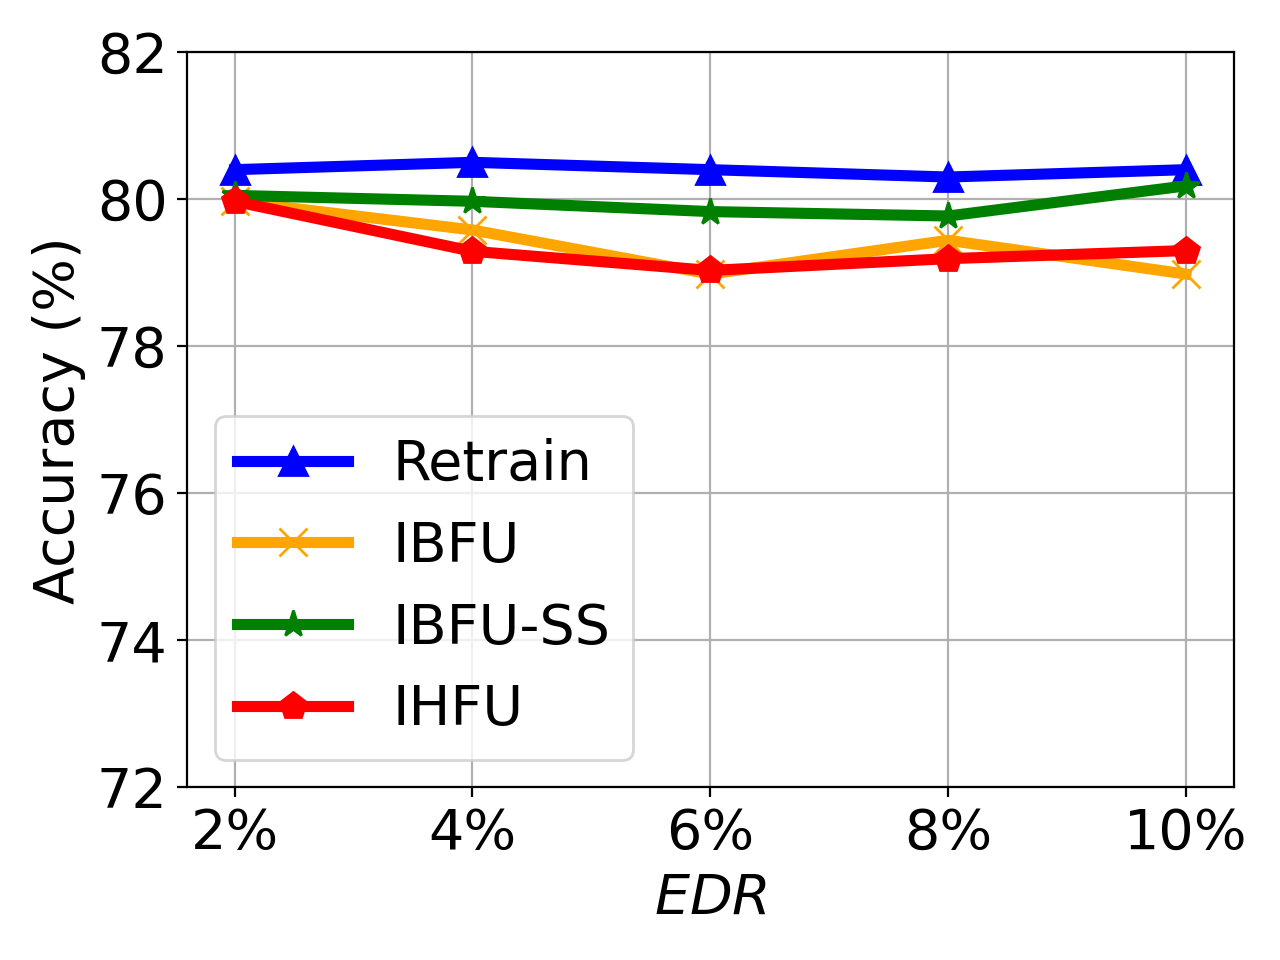
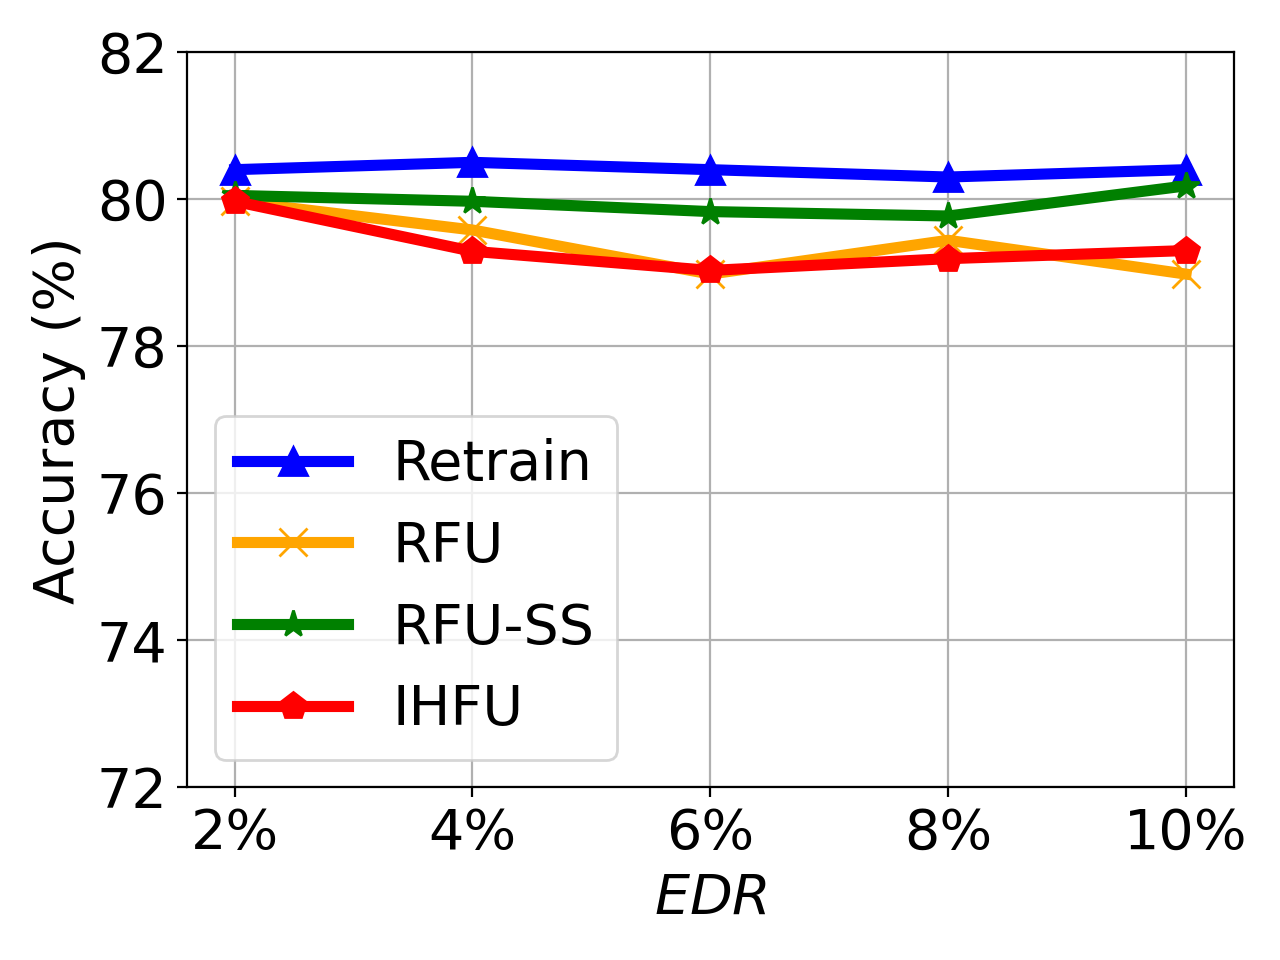
update

Changed region(s): [[0.3125, 0.4375, 0.5, 0.7812], [0.3125, 0.5312, 0.4062, 0.5938]]

diff --git a/IBFU_Experiment_results/MNIST/client/mnist_client_epochs.py b/IBFU_Experiment_results/MNIST/client/mnist_client_epochs.py
@@ -1,5 +1,6 @@
 
 
+
 import numpy as np
 import matplotlib.pyplot as plt
 
@@ -33,11 +34,14 @@ for i in range(5):
     y_hfu_acc[i] = y_hfu_acc[i]*100
 
 
-plt.figure() #figsize=(8, 6)
-plt.plot(x, y_bfu_back_acc, color='orange',  marker='x',  label='RFU',linewidth=4,  markersize=10)
-plt.plot(x, y_ss_back_acc, color='g',  marker='*',  label='RFU-SS',linewidth=4, markersize=10)
+
+
+fig, ax = plt.subplots(1, 2,sharex='col', sharey='row', figsize=(8.8,4))
+
+ax[0].plot(x, y_bfu_acc, color='orange',  marker='x',  label='IBFU',linewidth=4,  markersize=10)
+ax[0].plot(x, y_ss_acc, color='g',  marker='*',  label='IBFU-SS',linewidth=4, markersize=10)
 #plt.plot(x, y_fkl, color='g',  marker='+',  label='VRFL')
-plt.plot(x, y_hfu_back_acc, color='r',  marker='p',  label='HFU',linewidth=4, markersize=10)
+ax[0].plot(x, y_hfu_acc, color='r',  marker='p',  label='HFU',linewidth=4, markersize=10)
 
 # plt.plot(x, unl_fr, color='blue', marker='^', label='Retrain',linewidth=4, markersize=10)
 # plt.plot(x, unl_br, color='orange',  marker='x',  label='BFU',linewidth=4,  markersize=10)
@@ -51,16 +55,49 @@ plt.plot(x, y_hfu_back_acc, color='r',  marker='p',  label='HFU',linewidth=4, ma
 # plt.plot(x, y_hessian_30_s, color='y',  marker='*',  label='Unlearning INFOCOM22',linewidth=3, markersize=8)
 
 
-plt.grid()
-leg = plt.legend(fancybox=True, shadow=True)
-plt.xlabel('Epoch' ,fontsize=20)
-plt.ylabel('Backdoor Accuracy (%)' ,fontsize=20)
-my_y_ticks = np.arange(0 ,110,20)
-plt.yticks(my_y_ticks,fontsize=20)
-plt.xticks(x,fontsize=20)
+ax[0].grid()
+leg = ax[0].legend(fancybox=True, shadow=True)
+ax[0].set_xlabel('Epoch' ,fontsize=20)
+ax[0].set_title('a) FedMC,$\it{RMC}=30\%$', fontsize=20)
+ax[0].set_ylabel('Accuracy (%)' ,fontsize=20)
+my_y_ticks = np.arange(80 ,102,5)
+ax[0].set_yticks(my_y_ticks)
+ax[0].set_xticks(x)
 # plt.title('CIFAR10 IID')
-plt.legend(loc='best',fontsize=20)
+ax[0].legend(loc='best',fontsize=20)
+# ax[0].tight_layout()
+
+
+
+ax[1].plot(x, y_bfu_back_acc, color='orange',  marker='x',  label='RFU',linewidth=4,  markersize=10)
+ax[1].plot(x, y_ss_back_acc, color='g',  marker='*',  label='RFU-SS',linewidth=4, markersize=10)
+#plt.plot(x, y_fkl, color='g',  marker='+',  label='VRFL')
+ax[1].plot(x, y_hfu_back_acc, color='r',  marker='p',  label='HFU',linewidth=4, markersize=10)
+
+# plt.plot(x, unl_fr, color='blue', marker='^', label='Retrain',linewidth=4, markersize=10)
+# plt.plot(x, unl_br, color='orange',  marker='x',  label='BFU',linewidth=4,  markersize=10)
+# plt.plot(x, unl_self_r, color='g',  marker='*',  label='BFU-SS',linewidth=4, markersize=10)
+# plt.plot(x, unl_hess_r, color='r',  marker='p',  label='HFU',linewidth=4, markersize=10)
+
+
+# plt.plot(x, y_unl_s, color='b', marker='^', label='Normal Bayessian Fed Unlearning',linewidth=3, markersize=8)
+# plt.plot(x, y_unl_self_s, color='r',  marker='x',  label='Self-sharing Fed Unlearning',linewidth=3, markersize=8)
+# #plt.plot(x, y_fkl, color='g',  marker='+',  label='VRFL')
+# plt.plot(x, y_hessian_30_s, color='y',  marker='*',  label='Unlearning INFOCOM22',linewidth=3, markersize=8)
+
+
+ax[1].grid()
+leg = ax[1].legend(fancybox=True, shadow=True)
+ax[1].set_xlabel('Epoch' ,fontsize=20)
+ax[1].set_ylabel('Backdoor Accuracy (%)' ,fontsize=20)
+my_y_ticks2 = np.arange(0 ,110,20)
+ax[1].set_yticks(my_y_ticks2)
+ax[1].set_xticks(x)
+# plt.title('CIFAR10 IID')
+ax[1].legend(loc='best',fontsize=20)
+# ax[1].tight_layout()
 plt.tight_layout()
+
 #plt.title("Fashion MNIST")
 plt.rcParams['figure.figsize'] = (2.0, 1)
 plt.rcParams['image.interpolation'] = 'nearest'
@@ -68,5 +105,5 @@ plt.rcParams['figure.subplot.left'] = 0.11
 plt.rcParams['figure.subplot.bottom'] = 0.08
 plt.rcParams['figure.subplot.right'] = 0.977
 plt.rcParams['figure.subplot.top'] = 0.969
-plt.savefig('mnist_client_detail_backdoor.png', dpi=200)
+plt.savefig('mnist_client_detail_epochs.png', dpi=200)
 plt.show()

diff --git a/IBFU_Experiment_results/MNIST/Server_acc/mnist_Acc_er_curve.py b/IBFU_Experiment_results/MNIST/Server_acc/mnist_Acc_er_curve.py
@@ -24,8 +24,8 @@ unl_hess_r = [95.99,  96.69, 96.49, 96.76, 96.52  ]
 plt.figure()
 #plt.figure(figsize=(8, 5.3))
 plt.plot(x, unl_fr, color='blue', marker='^', label='Retrain',linewidth=4, markersize=10)
-plt.plot(x, unl_br, color='orange',  marker='x',  label='IBFU',linewidth=4,  markersize=10)
-plt.plot(x, unl_self_r, color='g',  marker='*',  label='IBFU-SS',linewidth=4, markersize=10)
+plt.plot(x, unl_br, color='orange',  marker='x',  label='RFU',linewidth=4,  markersize=10)
+plt.plot(x, unl_self_r, color='g',  marker='*',  label='RFU-SS',linewidth=4, markersize=10)
 plt.plot(x, unl_hess_r, color='r',  marker='p',  label='HFU',linewidth=4, markersize=10)
 # plt.plot(x, y_sa03, color='r',  marker='2',  label='AAAI21 A_acc, pr=0.3',linewidth=3, markersize=8)
 # plt.plot(x, y_sa05, color='darkblue',  marker='4',  label='AAAI21 A_acc, pr=0.5',linewidth=3, markersize=8)

diff --git a/IBFU_Experiment_results/CIFAR10/Server_acc/cifar10_Acc_er_curve.py b/IBFU_Experiment_results/CIFAR10/Server_acc/cifar10_Acc_er_curve.py
@@ -23,8 +23,8 @@ unl_hess_r = [79.97,  79.29, 79.03, 79.19, 79.3]
 plt.figure()
 #plt.figure(figsize=(8, 5.3))
 plt.plot(x, unl_fr, color='blue', marker='^', label='Retrain',linewidth=4, markersize=10)
-plt.plot(x, unl_br, color='orange',  marker='x',  label='IBFU',linewidth=4,  markersize=10)
-plt.plot(x, unl_self_r, color='g',  marker='*',  label='IBFU-SS',linewidth=4, markersize=10)
+plt.plot(x, unl_br, color='orange',  marker='x',  label='RFU',linewidth=4,  markersize=10)
+plt.plot(x, unl_self_r, color='g',  marker='*',  label='RFU-SS',linewidth=4, markersize=10)
 plt.plot(x, unl_hess_r, color='r',  marker='p',  label='IHFU',linewidth=4, markersize=10)
 # plt.plot(x, y_sa03, color='r',  marker='2',  label='AAAI21 A_acc, pr=0.3',linewidth=3, markersize=8)
 # plt.plot(x, y_sa05, color='darkblue',  marker='4',  label='AAAI21 A_acc, pr=0.5',linewidth=3, markersize=8)

diff --git a/IBFU_Experiment_results/MNIST/Server_acc/mnist_Acc_ke_curve.py b/IBFU_Experiment_results/MNIST/Server_acc/mnist_Acc_ke_curve.py
@@ -23,8 +23,8 @@ unl_hess_r = [97.34,  96.67, 96.52, 95.42, 93.27]
 plt.figure()
 #plt.figure(figsize=(8, 5.3))
 plt.plot(x, unl_fr, color='blue', marker='^', label='Retrain',linewidth=4, markersize=10)
-plt.plot(x, unl_br, color='orange',  marker='x',  label='IBFU',linewidth=4,  markersize=10)
-plt.plot(x, unl_self_r, color='g',  marker='*',  label='IBFU-SS',linewidth=4, markersize=10)
+plt.plot(x, unl_br, color='orange',  marker='x',  label='RFU',linewidth=4,  markersize=10)
+plt.plot(x, unl_self_r, color='g',  marker='*',  label='RFU-SS',linewidth=4, markersize=10)
 plt.plot(x, unl_hess_r, color='r',  marker='p',  label='HFU',linewidth=4, markersize=10)
 # plt.plot(x, y_sa03, color='r',  marker='2',  label='AAAI21 A_acc, pr=0.3',linewidth=3, markersize=8)
 # plt.plot(x, y_sa05, color='darkblue',  marker='4',  label='AAAI21 A_acc, pr=0.5',linewidth=3, markersize=8)

diff --git a/IBFU_Experiment_results/CIFAR10/Server_acc/cifar10_Acc_ke_curve.py b/IBFU_Experiment_results/CIFAR10/Server_acc/cifar10_Acc_ke_curve.py
@@ -23,8 +23,8 @@ unl_hess_r = [80.11,  79.24, 79.3, 78.99, 77.91]
 plt.figure()
 #plt.figure(figsize=(8, 5.3))
 plt.plot(x, unl_fr, color='blue', marker='^', label='Retrain',linewidth=4, markersize=10)
-plt.plot(x, unl_br, color='orange',  marker='x',  label='IBFU',linewidth=4,  markersize=10)
-plt.plot(x, unl_self_r, color='g',  marker='*',  label='IBFU-SS',linewidth=4, markersize=10)
+plt.plot(x, unl_br, color='orange',  marker='x',  label='RFU',linewidth=4,  markersize=10)
+plt.plot(x, unl_self_r, color='g',  marker='*',  label='RFU-SS',linewidth=4, markersize=10)
 plt.plot(x, unl_hess_r, color='r',  marker='p',  label='HFU',linewidth=4, markersize=10)
 # plt.plot(x, y_sa03, color='r',  marker='2',  label='AAAI21 A_acc, pr=0.3',linewidth=3, markersize=8)
 # plt.plot(x, y_sa05, color='darkblue',  marker='4',  label='AAAI21 A_acc, pr=0.5',linewidth=3, markersize=8)

diff --git a/IBFU_Experiment_results/MNIST/Server_acc/mnist_Acc_ur_curve.py b/IBFU_Experiment_results/MNIST/Server_acc/mnist_Acc_ur_curve.py
@@ -24,8 +24,8 @@ unl_hess_r = [97.5,  97.5, 97.5, 96.7, 97.5 ]
 plt.figure()
 #plt.figure(figsize=(8, 5.3))
 plt.plot(x, unl_fr, color='blue', marker='^', label='Retrain',linewidth=4, markersize=10)
-plt.plot(x, unl_br, color='orange',  marker='x',  label='IBFU',linewidth=4,  markersize=10)
-plt.plot(x, unl_self_r, color='g',  marker='*',  label='IBFU-SS',linewidth=4, markersize=10)
+plt.plot(x, unl_br, color='orange',  marker='x',  label='RFU',linewidth=4,  markersize=10)
+plt.plot(x, unl_self_r, color='g',  marker='*',  label='RFU-SS',linewidth=4, markersize=10)
 #plt.plot(x, unl_hess_r, color='r',  marker='p',  label='HFU',linewidth=4, markersize=10)
 # plt.plot(x, y_sa03, color='r',  marker='2',  label='AAAI21 A_acc, pr=0.3',linewidth=3, markersize=8)
 # plt.plot(x, y_sa05, color='darkblue',  marker='4',  label='AAAI21 A_acc, pr=0.5',linewidth=3, markersize=8)

diff --git a/IBFU_Experiment_results/CIFAR10/Server_acc/cifar10_Acc_ur_curve.py b/IBFU_Experiment_results/CIFAR10/Server_acc/cifar10_Acc_ur_curve.py
@@ -23,8 +23,8 @@ unl_hess_r = [78.6,  78.6, 78.6, 78.6, 78.6]
 plt.figure()
 #plt.figure(figsize=(8, 5.3))
 plt.plot(x, unl_fr, color='blue', marker='^', label='Retrain',linewidth=4, markersize=10)
-plt.plot(x, unl_br, color='orange',  marker='x',  label='IBFU',linewidth=4,  markersize=10)
-plt.plot(x, unl_self_r, color='g',  marker='*',  label='IBFU-SS',linewidth=4, markersize=10)
+plt.plot(x, unl_br, color='orange',  marker='x',  label='RFU',linewidth=4,  markersize=10)
+plt.plot(x, unl_self_r, color='g',  marker='*',  label='RFU-SS',linewidth=4, markersize=10)
 #plt.plot(x, unl_hess_r, color='r',  marker='p',  label='HFU',linewidth=4, markersize=10)
 # plt.plot(x, y_sa03, color='r',  marker='2',  label='AAAI21 A_acc, pr=0.3',linewidth=3, markersize=8)
 # plt.plot(x, y_sa05, color='darkblue',  marker='4',  label='AAAI21 A_acc, pr=0.5',linewidth=3, markersize=8)

diff --git a/IBFU_Experiment_results/CIFAR10/Server_backacc/cifar_BackAcc_er_curve.py b/IBFU_Experiment_results/CIFAR10/Server_backacc/cifar_BackAcc_er_curve.py
@@ -23,8 +23,8 @@ org = [80.4, 82.6, 85.2,87.4, 89.7]
 plt.figure()
 #plt.figure(figsize=(8, 5.3))
 plt.plot(x, unl_fr, color='blue', marker='^', label='Retrain',linewidth=4, markersize=10)
-plt.plot(x, unl_br, color='orange',  marker='x',  label='IBFU',linewidth=4,  markersize=10)
-plt.plot(x, unl_self_r, color='g',  marker='*',  label='IBFU-SS',linewidth=4, markersize=10)
+plt.plot(x, unl_br, color='orange',  marker='x',  label='RFU',linewidth=4,  markersize=10)
+plt.plot(x, unl_self_r, color='g',  marker='*',  label='RFU-SS',linewidth=4, markersize=10)
 plt.plot(x, unl_hess_r, color='r',  marker='p',  label='HFU',linewidth=4, markersize=10)
 # plt.plot(x, y_sa03, color='r',  marker='2',  label='AAAI21 A_acc, pr=0.3',linewidth=3, markersize=8)
 # plt.plot(x, y_sa05, color='darkblue',  marker='4',  label='AAAI21 A_acc, pr=0.5',linewidth=3, markersize=8)

diff --git a/IBFU_Experiment_results/CIFAR10/client/cifar_client_acc_er_curve.py b/IBFU_Experiment_results/CIFAR10/client/cifar_client_acc_er_curve.py
@@ -23,8 +23,8 @@ unl_hess_r = [96.2,  92.14, 90.0, 88.016, 84.99]
 
 plt.figure()
 plt.plot(x, unl_fr, color='blue', marker='^', label='Retrain',linewidth=4, markersize=10)
-plt.plot(x, unl_br, color='orange',  marker='x',  label='IBFU',linewidth=4,  markersize=10)
-plt.plot(x, unl_self_r, color='g',  marker='*',  label='IBFU-SS',linewidth=4, markersize=10)
+plt.plot(x, unl_br, color='orange',  marker='x',  label='RFU',linewidth=4,  markersize=10)
+plt.plot(x, unl_self_r, color='g',  marker='*',  label='RFU-SS',linewidth=4, markersize=10)
 plt.plot(x, unl_hess_r, color='r',  marker='p',  label='HFU',linewidth=4, markersize=10)
 # plt.plot(x, y_sa03, color='r',  marker='2',  label='AAAI21 A_acc, pr=0.3',linewidth=3, markersize=8)
 # plt.plot(x, y_sa05, color='darkblue',  marker='4',  label='AAAI21 A_acc, pr=0.5',linewidth=3, markersize=8)

diff --git a/IBFU_Experiment_results/MNIST/client/mnist_client_ur/mnist_client_acc_ur_curve.py b/IBFU_Experiment_results/MNIST/client/mnist_client_ur/mnist_client_acc_ur_curve.py
@@ -24,8 +24,8 @@ unl_hess_r = [97.0,  97.0, 97.0, 97.0, 97.0]
 
 plt.figure()
 plt.plot(x, unl_fr, color='blue', marker='^', label='Retrain',linewidth=4, markersize=10)
-plt.plot(x, unl_br, color='orange',  marker='x',  label='IBFU',linewidth=4,  markersize=10)
-plt.plot(x, unl_self_r, color='g',  marker='*',  label='IBFU-SS',linewidth=4, markersize=10)
+plt.plot(x, unl_br, color='orange',  marker='x',  label='RFU',linewidth=4,  markersize=10)
+plt.plot(x, unl_self_r, color='g',  marker='*',  label='RFU-SS',linewidth=4, markersize=10)
 # plt.plot(x, unl_hess_r, color='r',  marker='p',  label='HFU',linewidth=4, markersize=10)
 # plt.plot(x, y_sa03, color='r',  marker='2',  label='AAAI21 A_acc, pr=0.3',linewidth=3, markersize=8)
 # plt.plot(x, y_sa05, color='darkblue',  marker='4',  label='AAAI21 A_acc, pr=0.5',linewidth=3, markersize=8)

diff --git a/IBFU_Experiment_results/CIFAR10/client/cifar_client_ur/cifar_client_acc_ur_curve.py b/IBFU_Experiment_results/CIFAR10/client/cifar_client_ur/cifar_client_acc_ur_curve.py
@@ -24,8 +24,8 @@ unl_hess_r = [97.0,  97.0, 97.0, 97.0, 97.0]
 
 plt.figure()
 plt.plot(x, unl_fr, color='blue', marker='^', label='Retrain',linewidth=4, markersize=10)
-plt.plot(x, unl_br, color='orange',  marker='x',  label='IBFU',linewidth=4,  markersize=10)
-plt.plot(x, unl_self_r, color='g',  marker='*',  label='IBFU-SS',linewidth=4, markersize=10)
+plt.plot(x, unl_br, color='orange',  marker='x',  label='RFU',linewidth=4,  markersize=10)
+plt.plot(x, unl_self_r, color='g',  marker='*',  label='RFU-SS',linewidth=4, markersize=10)
 #plt.plot(x, unl_hess_r, color='r',  marker='p',  label='HFU',linewidth=4, markersize=10)
 # plt.plot(x, y_sa03, color='r',  marker='2',  label='AAAI21 A_acc, pr=0.3',linewidth=3, markersize=8)
 # plt.plot(x, y_sa05, color='darkblue',  marker='4',  label='AAAI21 A_acc, pr=0.5',linewidth=3, markersize=8)

diff --git a/IBFU_Experiment_results/MNIST/client/mnist_client_acc_er_curve.py b/IBFU_Experiment_results/MNIST/client/mnist_client_acc_er_curve.py
@@ -23,8 +23,8 @@ unl_hess_r = [85.2,  82.14, 87.0, 84.3, 87.0]
 
 plt.figure()
 plt.plot(x, unl_fr, color='blue', marker='^', label='Retrain',linewidth=4, markersize=10)
-plt.plot(x, unl_br, color='orange',  marker='x',  label='IBFU',linewidth=4,  markersize=10)
-plt.plot(x, unl_self_r, color='g',  marker='*',  label='IBFU-SS',linewidth=4, markersize=10)
+plt.plot(x, unl_br, color='orange',  marker='x',  label='RFU',linewidth=4,  markersize=10)
+plt.plot(x, unl_self_r, color='g',  marker='*',  label='RFU-SS',linewidth=4, markersize=10)
 plt.plot(x, unl_hess_r, color='r',  marker='p',  label='HFU',linewidth=4, markersize=10)
 # plt.plot(x, y_sa03, color='r',  marker='2',  label='AAAI21 A_acc, pr=0.3',linewidth=3, markersize=8)
 # plt.plot(x, y_sa05, color='darkblue',  marker='4',  label='AAAI21 A_acc, pr=0.5',linewidth=3, markersize=8)
